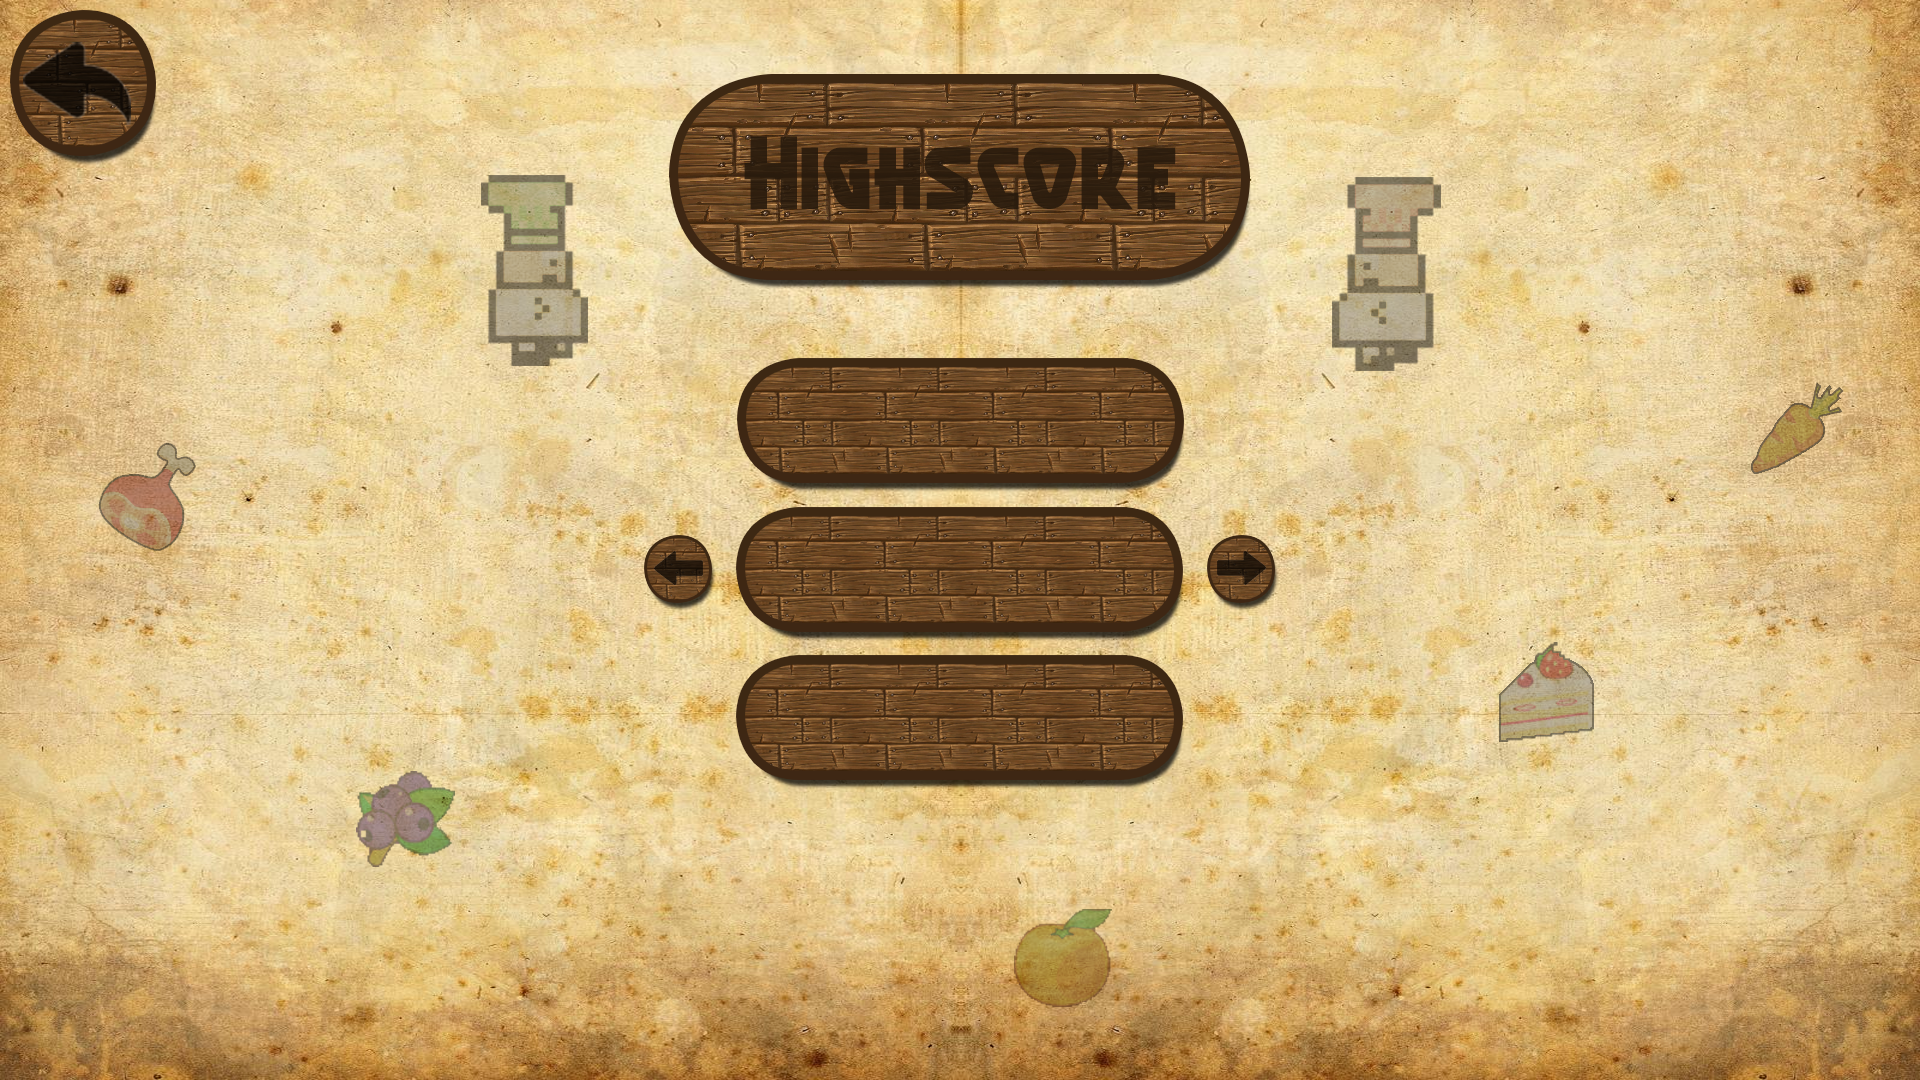
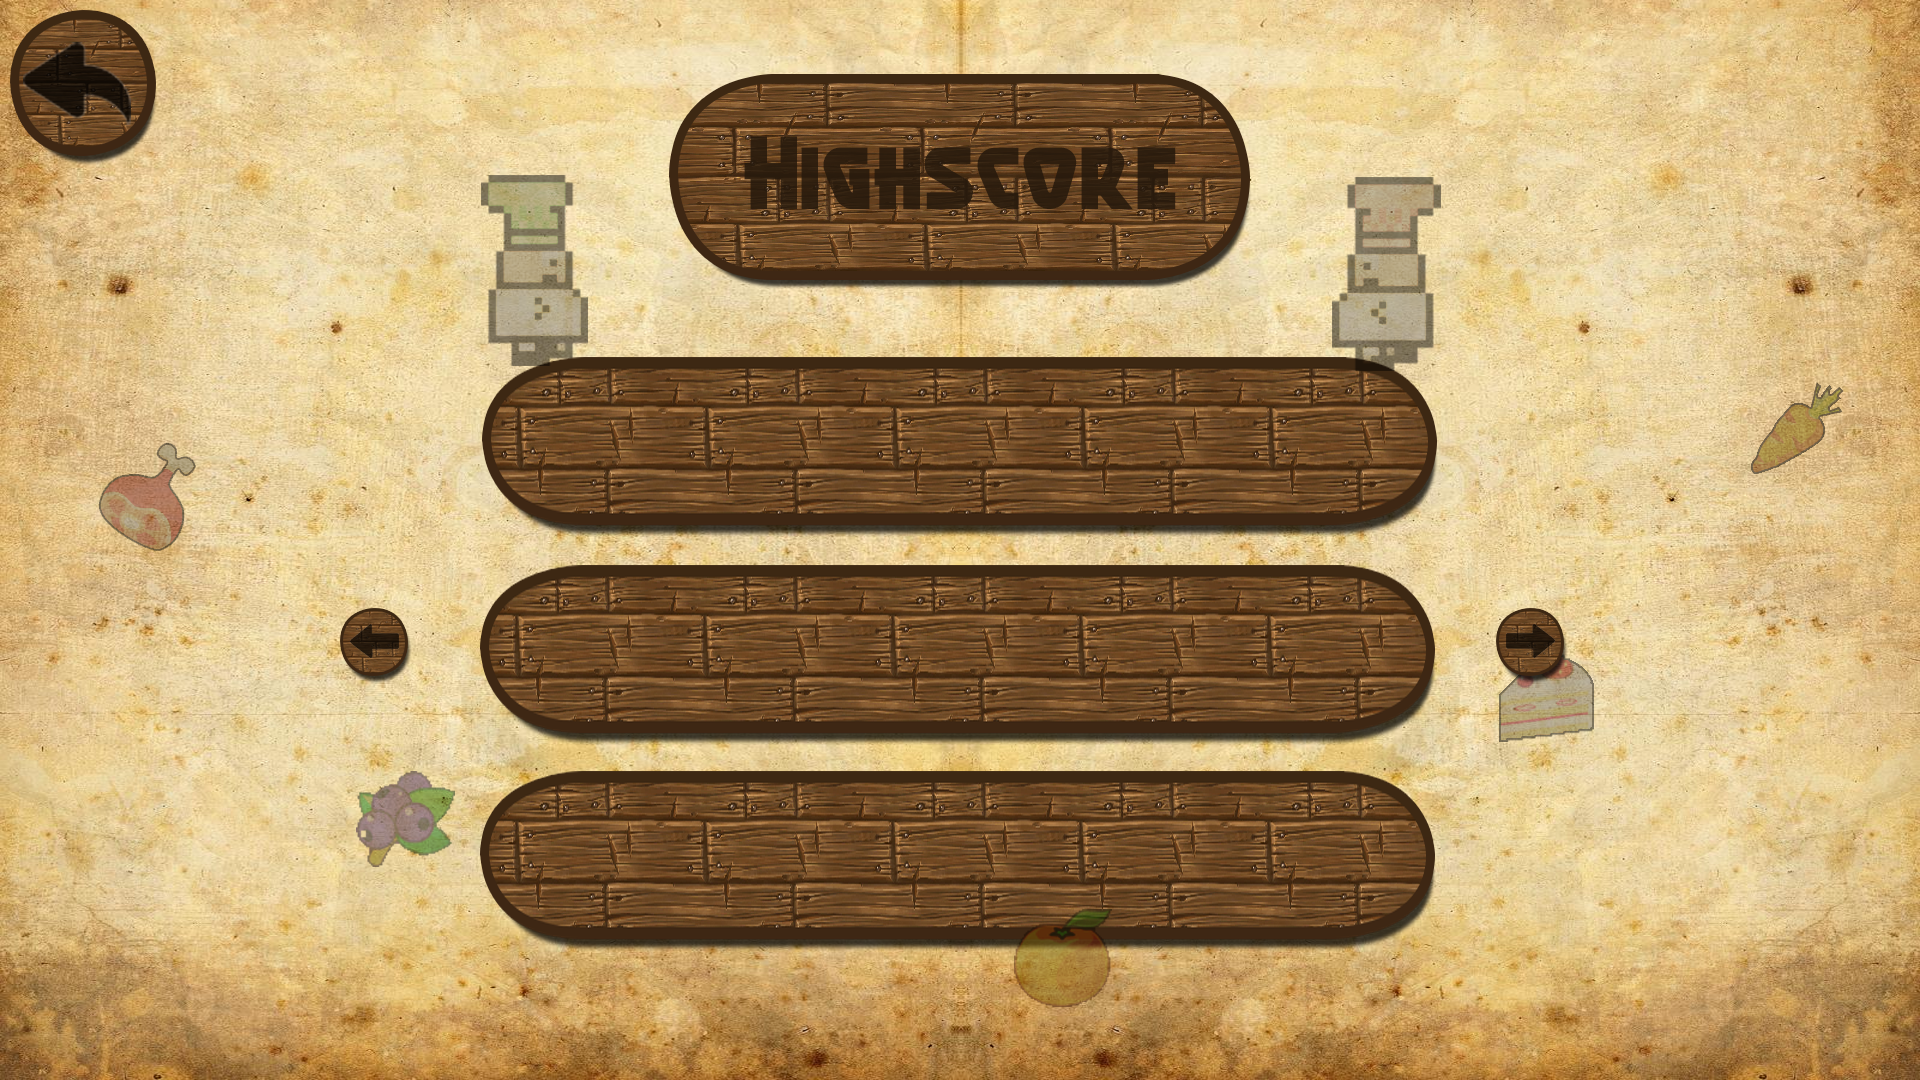
Corrections for better readability

Changed region(s): [[0.25, 0.3056, 0.75, 0.8861], [0.1562, 0.55, 0.2188, 0.6417], [0.7812, 0.55, 0.8125, 0.6417]]

diff --git a/FoodWars/Sources/StateMachine/HighscoreScreen.cpp b/FoodWars/Sources/StateMachine/HighscoreScreen.cpp
@@ -3,7 +3,7 @@
 
 HighscoreScreen::HighscoreScreen(ScreenStateManager& context) : IScreen(context),
         _currentIndex{0},
-        mouseEventObservable(&_inputFacade->getMouseEventObservable()){
+        _mouseEventObservable(&_inputFacade->getMouseEventObservable()){
     _inputFacade->getKeyEventObservable().registerKeyEventObserver(this);
     auto wallpaper = createShape<ShapeSprite>(1600, 900, 0, 0, "ScreenHighscore.png");
     wallpaper->layer = 0;
@@ -20,19 +20,19 @@ HighscoreScreen::HighscoreScreen(ScreenStateManager& context) : IScreen(context)
                               [this]() {
                                   alterIndex(-1);
                               },
-                              60, 60, 535, 444,
+                              60, 60, 280, 510,
                               Colour{0,0,0,0})->addToRender(&_renderList);
 
     createShape<SpriteButton>(_inputFacade->getMouseEventObservable(), "",
                               [this]() {
                                   alterIndex(1);
                               },
-                              60, 60, 1000,444,
+                              60, 60, 1245,510,
                               Colour{0,0,0,0})->addToRender(&_renderList);
     refreshScoreText();
     for (int i = 0; i < 3 && i < _levelScores.size(); i++)
     {
-        placeShape(640, 310 + (i%3 * 125), "", 330, 80, Colour(255, 255, 255, 0));
+        placeShape(465, 295 + (i%3 * 170), "", 670, 160, Colour(255, 255, 255, 0));
     }
 }
 

diff --git a/FoodWars/Headers/StateMachine/HighscoreScreen.h b/FoodWars/Headers/StateMachine/HighscoreScreen.h
@@ -19,7 +19,7 @@ private:
 
     int _currentIndex;
     std::vector<std::vector<std::string>> _levelScores;
-    MouseEventObservable* mouseEventObservable;
+    MouseEventObservable* _mouseEventObservable;
     std::vector<ShapeText*> _visualScores;
 };
 
